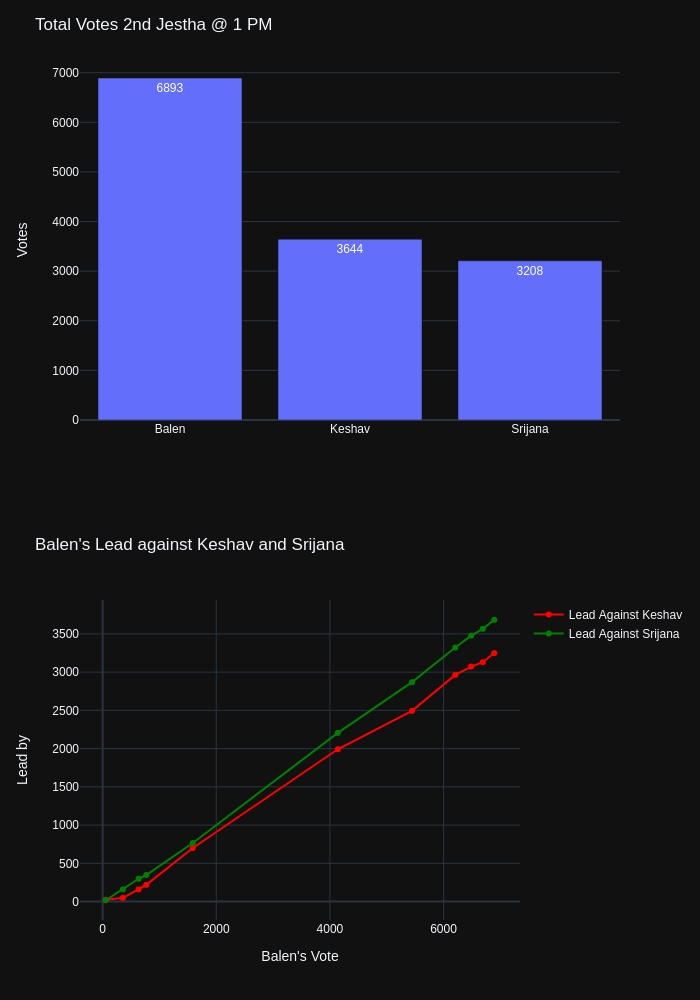
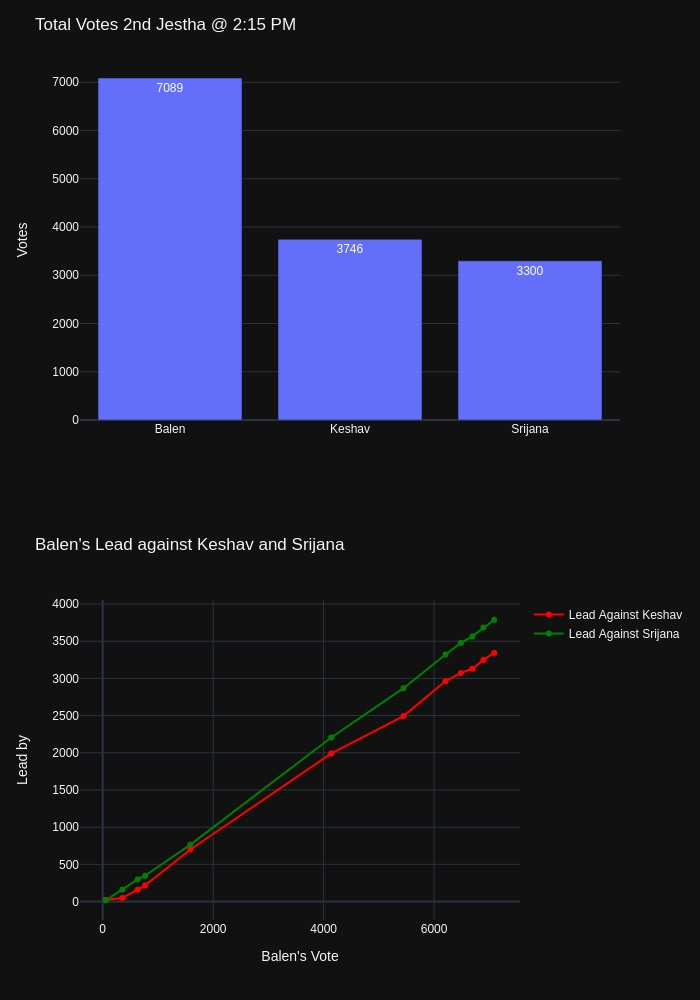
Add new data

diff --git a/README.md b/README.md
@@ -1,4 +1,4 @@
-## Last Update:2nd Jestha @ 1 PM
+## Last Update:2nd Jestha @ 2:15 PM
 
 ## Balen's Lead against Keshav Sthapit and Srijana Singh
 ![ScreenShot](final.jpg)
